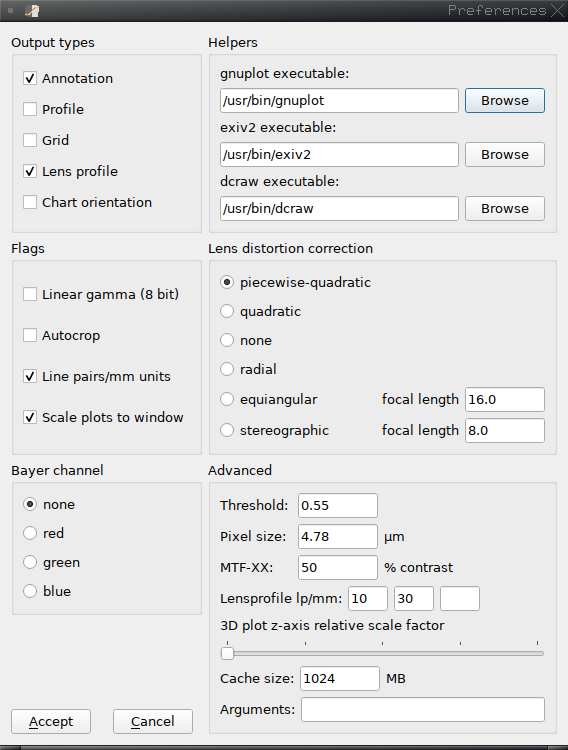
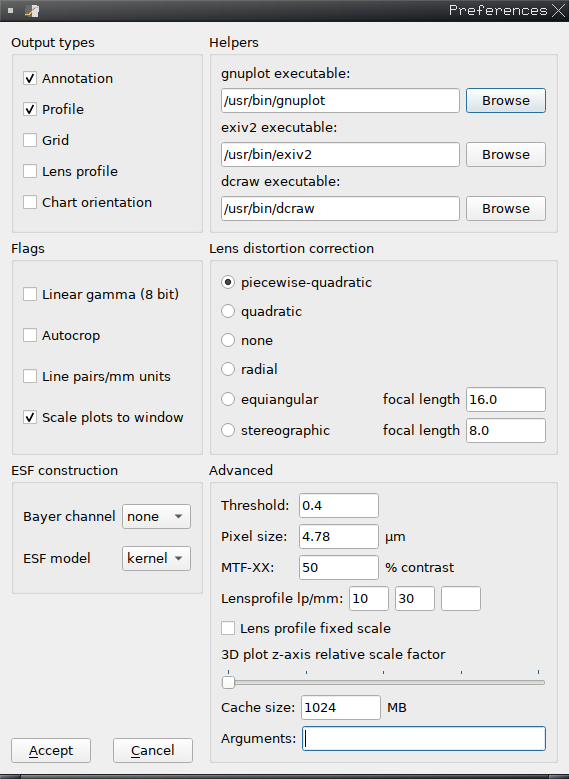
updated user guide to include ESF model selection

diff --git a/doc/mtf_mapper_user_guide.tex b/doc/mtf_mapper_user_guide.tex
@@ -503,8 +503,9 @@ window if this option is turned on (as it is by default). You can safely
 leave this on.
 \end{description}
 
-The bottom-left panel, \textsf{Bayer channel}, is a lot more powerful than
-its unassuming appearance might lead you to believe. If the `None' option is
+The bottom-left panel, \textsf{ESF construction}, is a lot more powerful than
+its unassuming appearance might lead you to believe. The ``Bayer channel''
+option allows you to control how a colour image is processed: If the `None' option is
 selected, then your input image will be converted to a grayscale image
 before the main MTF Mapper processing starts. Nothing (much) will happen if
 your input image was already a grayscale image. Things get a little more
@@ -517,7 +518,7 @@ employed (sRGB D65 illuminant). The implication is that MTF Mapper will report o
 of the luminance channel of your RGB images if you leave the \textsf{Bayer
 channel} option set to `None'.
 
-If you choose a different \textsf{Bayer channel} option (`red', `green' or
+If you choose a different ``Bayer channel'' option (`red', `green' or
 `blue') \emph{and} your input image is a raw camera file, then two things
 happen:
 \begin{enumerate}
@@ -534,7 +535,8 @@ to really obtain the lens MTF, but you get the idea.)
 This approach gives us the most accurate method of measuring effects like
 longitudinal chromatic aberration, or any other phenomenon that could cause
 the demosaicing algorithm to inadvertently mix the MTFs of the different
-wavelength subsets (e.g., Red, Green, or Blue).
+wavelength subsets (e.g., Red, Green, or Blue). You can read up on this
+feature of MTF Mapper in a journal paper \cite{fvdb2018}.
 
 
 NB: Just keep in mind that only 25\% of the photosites of the sensor will be
@@ -549,6 +551,17 @@ pattern (rather unlikely) you can add \texttt{--cfa-pattern bggr} (or
 whatever your pattern is) to the `Arguments' field in the \textsf{Advanced}
 panel of the \textsf{Prefences} dialog. See Appendix~\ref{sec:manpages} for
 all the supported CFA patterns.
+
+The second entry in the \textsf{ESF construction} panel, called ``ESF
+model'', is used to select which algorithm MTF Mapper will use internally
+to estimate the Edge Spread Function (ESF). The `loess' algorithm produces
+more accurate results, but it is slightly slower than the legacy `kernel'
+algorithm. I would recommend using the `loess' algorithm unless you have a
+specific requirement to produce SFR measurements that are compatible with
+earlier versions of MTF Mapper (pre- version 0.7.16). The `loess' algorithm
+is also recommended if you are using a ``Bayer channel'' setting of `red' or
+`blue', since this algorithm is better at dealing with sparse image subsets
+near critical edge orientations --- see \cite{fvdb2019} for details.
 
 The middle-right panel, \textsf{Lens distortion correction}, deals with
 methods to work around lens distortion. Although MTF Mapper supports
@@ -1790,6 +1803,15 @@ Sensing}, 20:12--23, 2004.
 technique},
 \newblock{\textit{Computer Vision and Image Understanding}}, \textbf{93(2)}:206--220,
 2004
+\bibitem{fvdb2018} Van den Bergh, F,
+\newblock{Deferred slanted-edge analysis: a unified approach to spatial frequency response measurement on distorted images and color filter array
+subsets},
+\newblock{Journal of the Optical Society of America A},
+\textbf{35(3)}:442--451, 2018.
+\bibitem{fvdb2019} Van den Bergh, F,
+\newblock{Robust edge-spread function construction methods to counter poor sample spacing uniformity in the slanted-edge
+method},
+\newblock{Journal of the Optical Society of America A}, \textbf{36(7)}:1126--1136, 2019.
 \end{thebibliography}
 
 \end{document}
